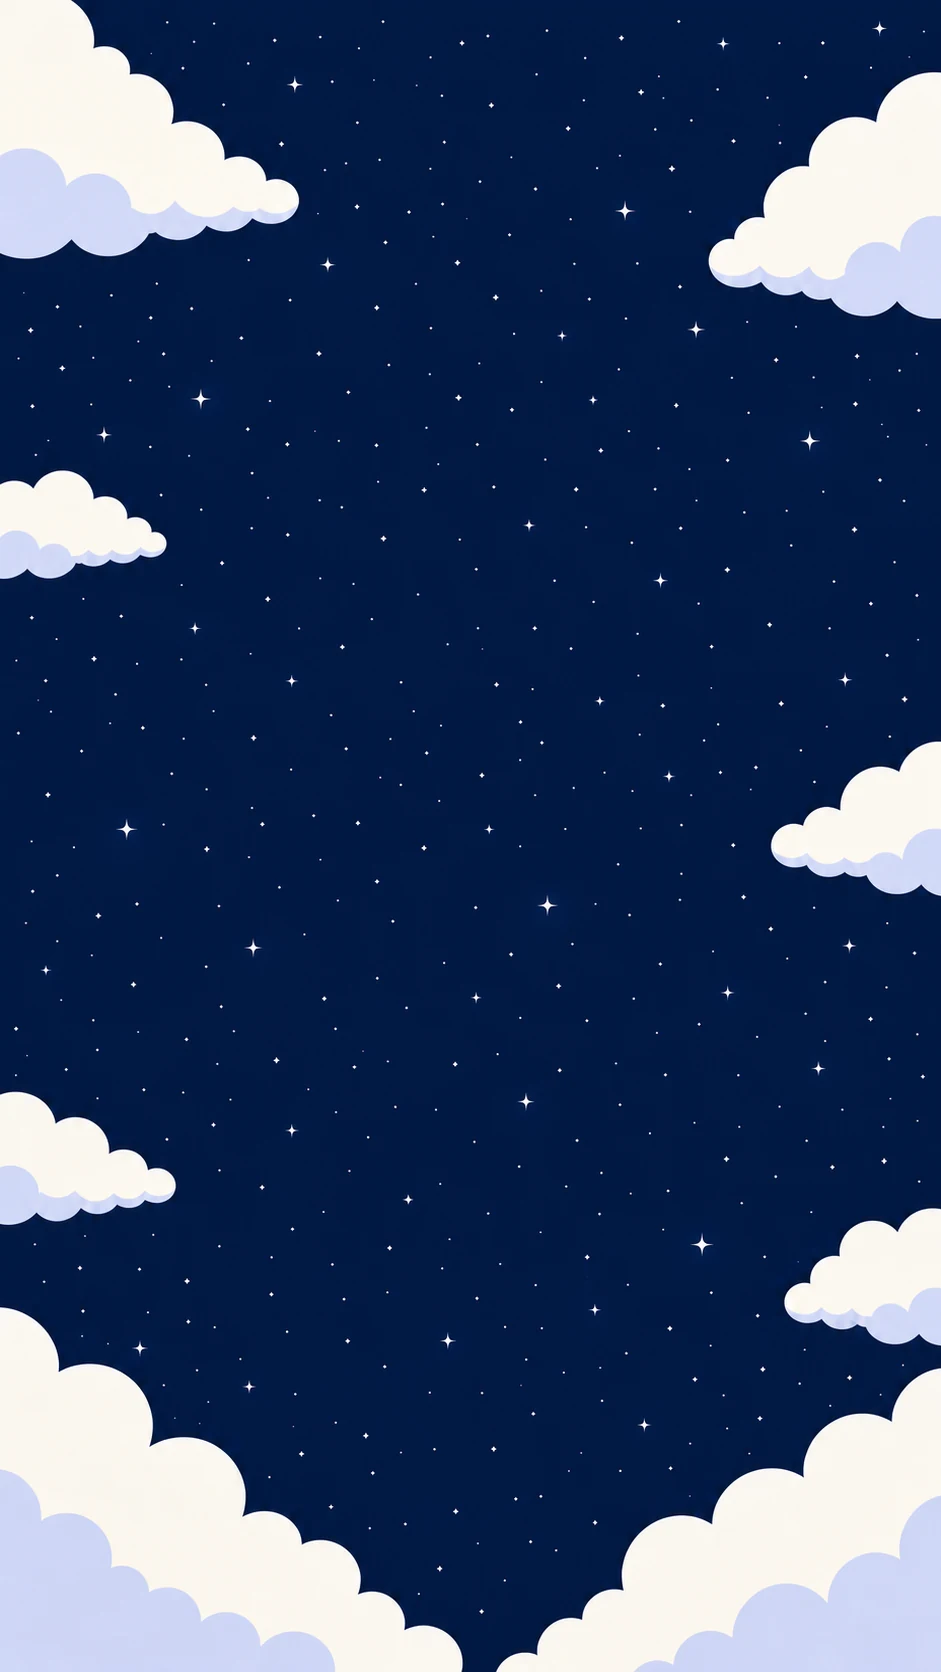
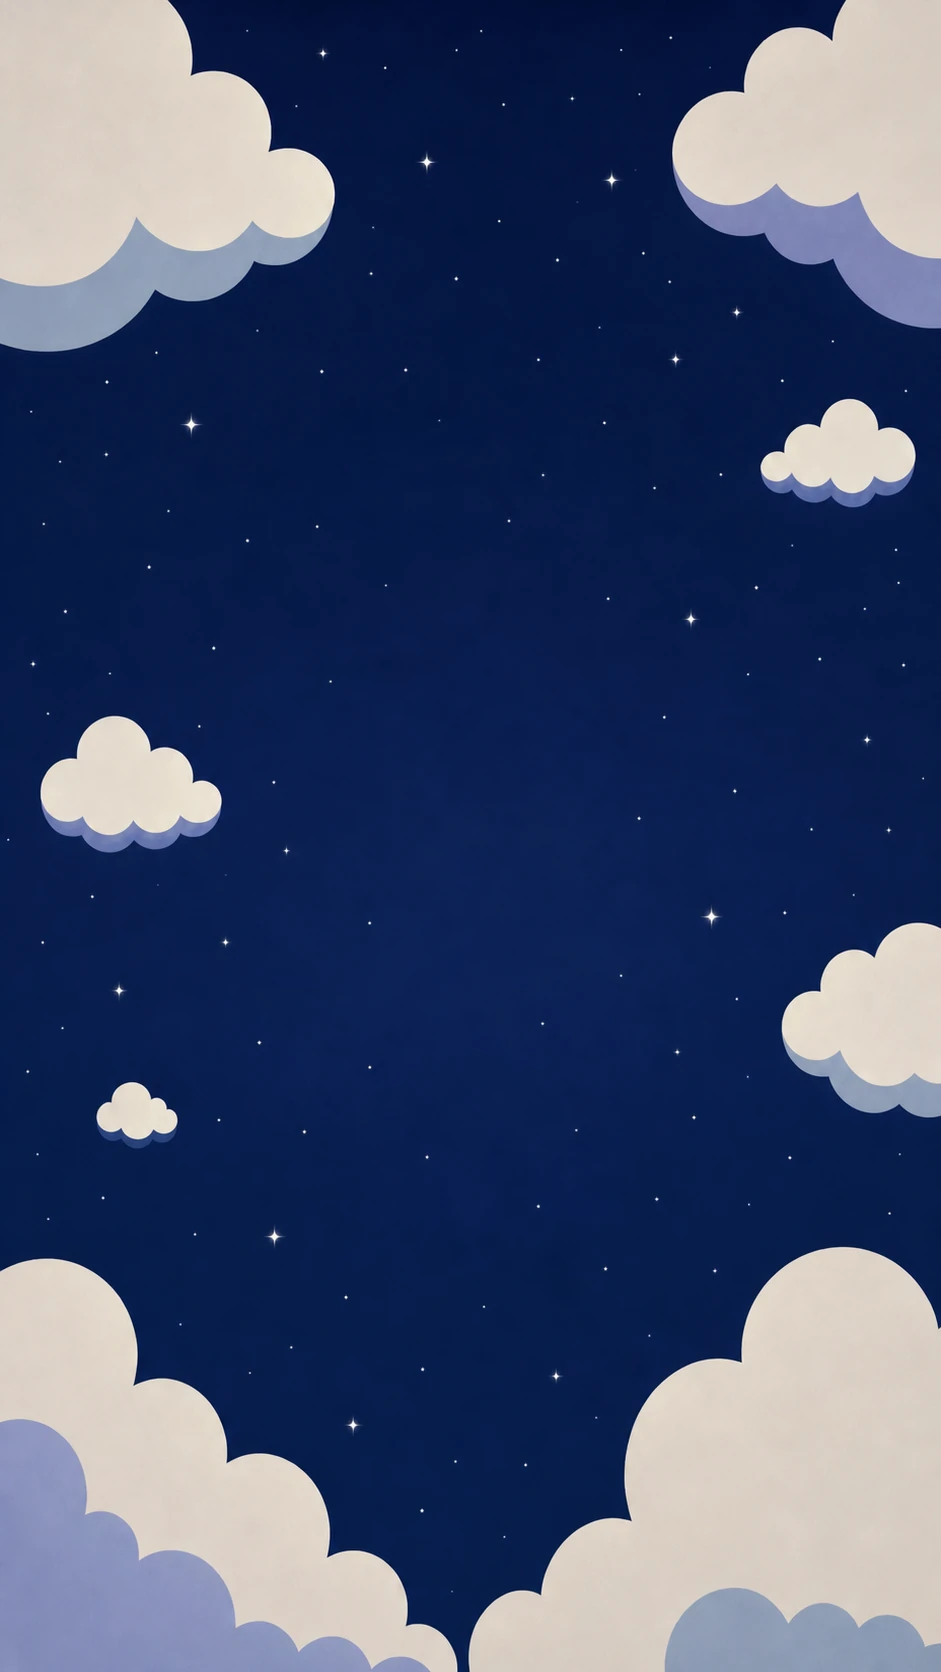
Add seamless day night background crossfade

diff --git a/styles.css b/styles.css
@@ -39,6 +39,7 @@ html{
   -webkit-text-size-adjust:100%;
   text-size-adjust:100%;
   background-color:#d9ecff;
+  transition:background-color 1s ease-in-out;
 }
 html[data-theme="dark"]{background-color:#17243f}
 body{
@@ -59,18 +60,39 @@ body{
   z-index:0;
   pointer-events:none;
   background-color:#d9ecff;
-  background-image:url("assets/backgrounds/sky-light-desktop.webp");
+  overflow:hidden;
+  transition:background-color 1s ease-in-out;
+}
+.cloud-bg::before,.cloud-bg::after{
+  content:"";
+  position:absolute;
+  inset:0;
   background-repeat:no-repeat;
   background-position:center center;
   background-size:cover;
+  transition:opacity 1s ease-in-out;
+  will-change:opacity;
+}
+.cloud-bg::before{
+  background-image:url("assets/backgrounds/sky-light-desktop.webp");
+  opacity:1;
+}
+.cloud-bg::after{
+  background-image:url("assets/backgrounds/sky-dark-desktop.webp");
+  opacity:0;
 }
 html[data-theme="dark"] .cloud-bg{
   background-color:#17243f;
-  background-image:url("assets/backgrounds/sky-dark-desktop.webp");
+}
+html[data-theme="dark"] .cloud-bg::before{
+  opacity:0;
+}
+html[data-theme="dark"] .cloud-bg::after{
+  opacity:1;
 }
 @media(orientation:portrait) and (max-width:1024px){
-  .cloud-bg{background-image:url("assets/backgrounds/sky-light-mobile.webp")}
-  html[data-theme="dark"] .cloud-bg{background-image:url("assets/backgrounds/sky-dark-mobile.webp")}
+  .cloud-bg::before{background-image:url("assets/backgrounds/sky-light-mobile.webp")}
+  .cloud-bg::after{background-image:url("assets/backgrounds/sky-dark-mobile.webp")}
 }
 .app{position:relative;z-index:1;width:min(1080px,calc(100% - 24px));margin:calc(14px + env(safe-area-inset-top)) auto 36px}
 header,.card{
@@ -347,5 +369,5 @@ label.option:active{background:#fff0c6;transform:scale(.997)}label.option.correc
 
 @media(prefers-reduced-motion:reduce){
   *,*::before,*::after{animation-duration:.01ms!important;animation-iteration-count:1!important;transition-duration:.01ms!important;scroll-behavior:auto!important}
-  .cloud-bg{will-change:auto;transform:none!important}
+  .cloud-bg,.cloud-bg::before,.cloud-bg::after{will-change:auto;transform:none!important}
 }